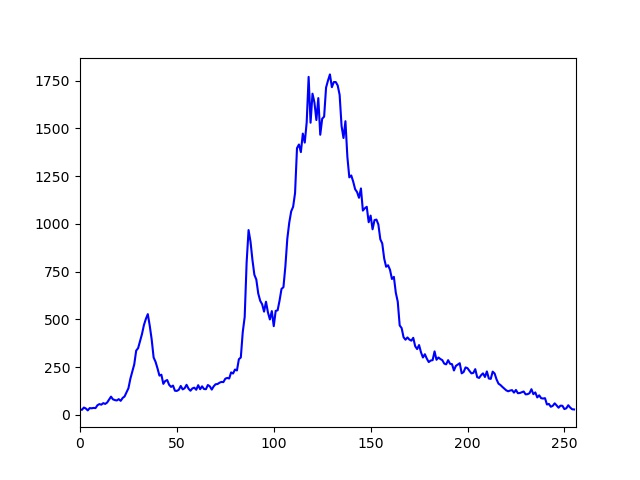
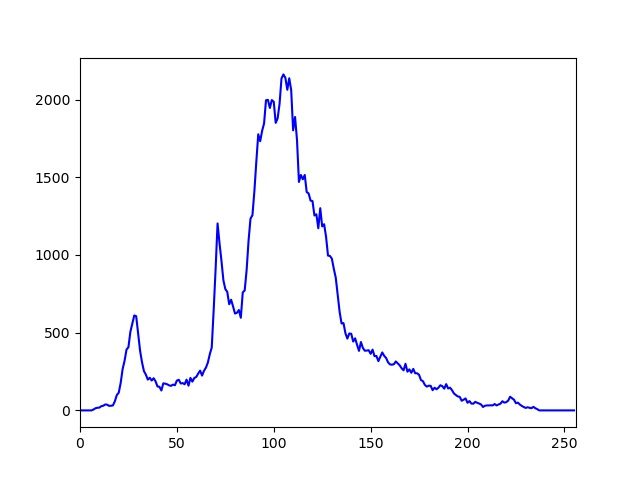
Gauss funktioniert jetzt wieder

diff --git a/Bildbearbeitung/Excercise3/ImageFiltering.py b/Bildbearbeitung/Excercise3/ImageFiltering.py
@@ -80,13 +80,12 @@ def applyMovingAverageFilter(img, kSize):
 
 # create a gaussian kernel of arbitrary size
 def createGaussianKernel(kSize, stdDeviation):
-
+    normalize = int(kSize/2)
     kernel = np.empty([kSize,kSize])
 
     for i in range(kSize):
         for j in range(kSize):
-            kernel[i,j] = ( 1/(np.sqrt(2 * np.pi)*stdDeviation) ) * np.exp(-((np.square(i)+np.square(j))/(2*stdDeviation)))
-
+            kernel[i,j] = (1/(2*np.pi*np.square(stdDeviation))) * np.exp(-0.5*((np.square(i-normalize)+np.square(j-normalize))/(np.square(stdDeviation))))
     return kernel
 
 def applyGaussFilter(img, kSize, stdDeviation):

diff --git a/Bildbearbeitung/Excercise3/main.py b/Bildbearbeitung/Excercise3/main.py
@@ -36,10 +36,10 @@ if __name__ == '__main__':
 
     #Gauss Bild Erstellen
     imgGauss = imgBW.copy()
-    IF.applyGaussFilter(imgGauss, 5, 1)
+    IF.applyGaussFilter(imgGauss, 5, 0.8)
 
     #Gauss Bild zeigen und speichern
-    cv2.imshow("Gauss", imgMovingAverage)
+    cv2.imshow("Gauss", imgGauss)
     cv2.imwrite("./Output/GaussImage.jpg", imgGauss)
 
     Utilities.showHistogram(imgGauss)
